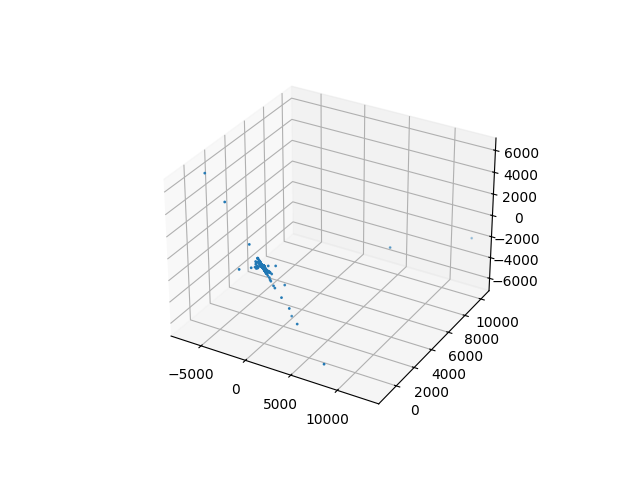
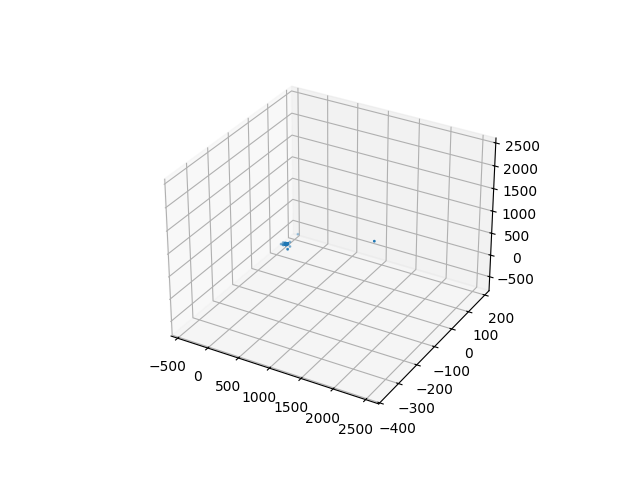
Add all sfm.

Changed region(s): [[0.25, 0.1875, 0.8438, 0.9062]]

diff --git a/main.py b/main.py
@@ -1,6 +1,7 @@
 import cv2
 import os
 import numpy as np
+import sys
 
 from bundle_adjustment import bundle_adjustment
 from plot_utils import viz_3d, viz_3d_matplotlib, draw_epipolar_lines
@@ -13,6 +14,12 @@ calibration_file_dir = os.path.join(curr_dir_path, "data/calibration")
 calibration_file = os.path.join(calibration_file_dir, "cameras.txt")
 images_info_file = os.path.join(calibration_file_dir, "images.txt")
 ###########################################################################################
+
+def count_camera_id_images_num(camera_images_info):
+    tmp = [0, 0, 0, 0]
+    for k, v in camera_images_info.items():
+        tmp[v["camera_id"]] += 1
+    print(tmp)
 
 def get_camera_intrinsic(file_path):
     # Camera list with one line of data per camera:
@@ -105,26 +112,26 @@ def rep_error_fn(opt_variables, points_2d, num_pts):
     for idx, pt_3d in enumerate(point_3d):
         pt_2d = np.array([points_2d[0][idx], points_2d[1][idx]])
 
-        reprojected_pt = np.matmul(P, pt_3d)
-        reprojected_pt /= reprojected_pt[2]
+        reprojected_pt = np.matmul(P, pt_3d) # Transform from 3d to 2d, z != 1
+        reprojected_pt /= reprojected_pt[2] # Transform from 3d to 2d, z == 1
 
         # print("Reprojection Error \n" + str(pt_2d - reprojected_pt[0:2]))
-        rep_error.append(pt_2d - reprojected_pt[0:2])
+        rep_error.append(pt_2d - reprojected_pt[0:2]) # Compared with the GT
+
+    return rep_error
 
 
 if __name__ == "__main__":
     # Variables
-    chosen_id = 1
     iter = 0
     prev_img = None
     prev_kp = None
     prev_desc = None
     camera_intrinsic_info = get_camera_intrinsic(calibration_file)
     camera_images_info = get_camera_images_info(images_info_file)
-    tmp = [0, 0, 0, 0]
-    for k, v in camera_images_info.items():
-        tmp[v["camera_id"]] += 1
-    print(tmp)
+
+    count_camera_id_images_num(camera_images_info)
+    chosen_id = 1 # Chosen camera id.
 
     # K = np.array(get_pinhole_intrinsic_params(), dtype=np.float)
     K = camera_intrinsic_info[chosen_id]["k"]
@@ -136,19 +143,25 @@ if __name__ == "__main__":
     X = np.array([])
     Y = np.array([])
     Z = np.array([])
+    rep_error_list = []
 
-    for filename in os.listdir(images_dir)[0:3]:
+    for filename in sorted(os.listdir(images_dir))[0:3]:
+        if (camera_images_info[filename]["camera_id"] != chosen_id):
+            continue
+
+        print(f"Iter: {iter}, Filename: {filename}")
         
         file = os.path.join(images_dir, filename)
         img = cv2.imread(file, 0) # Use grayscale.
+        # img = cv2.imread(file)
+        # cv2.imwrite("output_image.png", img)
 
         resized_img = img
         sift = cv2.SIFT_create()
-        kp, desc = sift.detectAndCompute(resized_img,None) # get Keypoints, Descriptors
+        kp, desc = sift.detectAndCompute(resized_img, None) # get Keypoints (pts), Descriptors (vectors)
+        # img_with_kp = cv2.drawKeypoints(img, kp, None)
+        # cv2.imwrite("output_image.png", img_with_kp)
 
-        if (camera_images_info[filename]["camera_id"] != chosen_id):
-            continue
-        
         if iter == 0:
             prev_img = resized_img
             prev_kp = kp
@@ -158,29 +171,28 @@ if __name__ == "__main__":
             FLANN_INDEX_KDTREE = 1
             index_params = dict(algorithm = FLANN_INDEX_KDTREE, trees = 5)
             search_params = dict(checks=100)
-            flann = cv2.FlannBasedMatcher(index_params,search_params)
-            matches = flann.knnMatch(prev_desc,desc,k=2)
+            flann = cv2.FlannBasedMatcher(index_params, search_params)
+            matches = flann.knnMatch(prev_desc, desc, k=2) # Matching.
             good = []
             pts1 = []
             pts2 = []
             # ratio test as per Lowe's paper
-            for i,(m,n) in enumerate(matches):
+            for i,(m, n) in enumerate(matches):
                 if m.distance < 0.7*n.distance:
                     good.append(m)
                     pts1.append(prev_kp[m.queryIdx].pt)
                     pts2.append(kp[m.trainIdx].pt)
                     
-            pts1 = np.array(pts1)
-            pts2 = np.array(pts2)
-            F, mask = cv2.findFundamentalMat(pts1,pts2, cv2.FM_RANSAC)
+            pts1 = np.array(pts1) # Good points in prev.
+            pts2 = np.array(pts2) # Good points in curr.
+            F, mask = cv2.findFundamentalMat(pts1, pts2, cv2.FM_RANSAC) # Find the fundamental matrix.
             print("The fundamental matrix \n" + str(F))
 
             # We select only inlier points
-            pts1 = pts1[mask.ravel()==1]
-            pts2 = pts2[mask.ravel()==1]
+            pts1 = pts1[mask.ravel()==1] # flatten by view.
+            pts2 = pts2[mask.ravel()==1] # flatten by view.
 
-            #draw_epipolar_lines(pts1, pts2, prev_img, resized_img)
-
+            # draw_epipolar_lines(pts1, pts2, prev_img, resized_img, F)
             E = np.matmul(np.matmul(np.transpose(K), F), K)
 
             print("The new essential matrix is \n" + str(E))
@@ -191,8 +203,8 @@ if __name__ == "__main__":
 
             print("Mullllllllllllll \n" + str(np.matmul(R, R_t_0[:3,:3])))
 
-            R_t_1[:3,:3] = np.matmul(R, R_t_0[:3,:3])
-            R_t_1[:3, 3] = R_t_0[:3, 3] + np.matmul(R_t_0[:3,:3],t.ravel())
+            R_t_1[:3,:3] = np.matmul(R, R_t_0[:3,:3]) # Camera extrinsic: rotation.
+            R_t_1[:3, 3] = R_t_0[:3, 3] + np.matmul(R_t_0[:3,:3], t.ravel()) # Camera extrinsic: translation.
 
             print("The R_t_0 \n" + str(R_t_0))
             print("The R_t_1 \n" + str(R_t_1))
@@ -207,13 +219,13 @@ if __name__ == "__main__":
 
             print("Shape pts 1\n" + str(pts1.shape))
 
-            points_3d = cv2.triangulatePoints(P1, P2, pts1, pts2)
+            points_3d = cv2.triangulatePoints(P1, P2, pts1, pts2) # Triangulation: reconstructing 3D points from two 2D projections.
             points_3d /= points_3d[3]
 
             # P2, points_3D = bundle_adjustment(points_3d, pts2, resized_img, P2)
             opt_variables = np.hstack((P2.ravel(), points_3d.ravel(order="F")))
             num_points = len(pts2[0])
-            rep_error_fn(opt_variables, pts2, num_points)
+            rep_error_list.append(rep_error_fn(opt_variables, pts2, num_points))
 
             X = np.concatenate((X, points_3d[0]))
             Y = np.concatenate((Y, points_3d[1]))

diff --git a/plot_utils.py b/plot_utils.py
@@ -54,23 +54,25 @@ def viz_3d_matplotlib(pt_3d, filename="3d_plot.png"):
     plt.show()
 
 
-def draw_epipolar_lines(pts1, pts2, img1, img2):
+def draw_epipolar_lines(pts1, pts2, img1, img2, F, filename="epipolar_lines.png"):
     pts1 = np.int32(pts1)
     pts2 = np.int32(pts2)
     # Find epilines corresponding to points in right image (second image) and
     # drawing its lines on left image
-    lines1 = cv.computeCorrespondEpilines(pts2.reshape(-1,1,2), 2,F)
+    lines1 = cv.computeCorrespondEpilines(pts2.reshape(-1,1,2), 2, F)
     lines1 = lines1.reshape(-1,3)
     img5,img6 = drawlines(img1,img2,lines1,pts1,pts2)
     # Find epilines corresponding to points in left image (first image) and
     # drawing its lines on right image
-    lines2 = cv.computeCorrespondEpilines(pts1.reshape(-1,1,2), 1,F)
+    lines2 = cv.computeCorrespondEpilines(pts1.reshape(-1,1,2), 1, F)
     lines2 = lines2.reshape(-1,3)
     img3,img4 = drawlines(img2,img1,lines2,pts2,pts1)
     plt.subplot(121)
     plt.imshow(img5)
     plt.subplot(122)
     plt.imshow(img3)
+
+    plt.savefig(filename)
     plt.show()
 
 def drawlines(img1,img2,lines,pts1,pts2):
